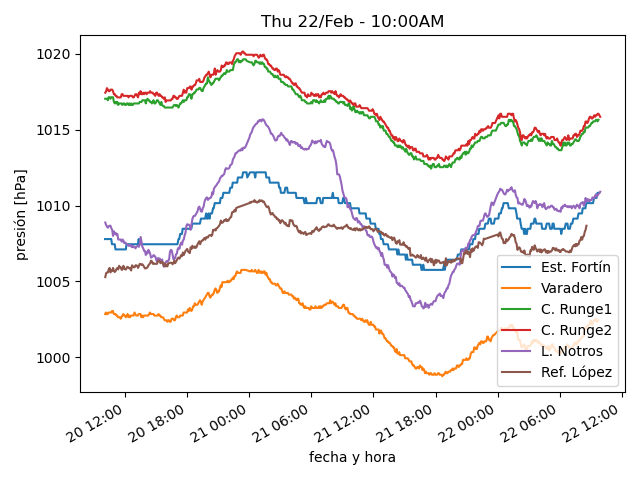
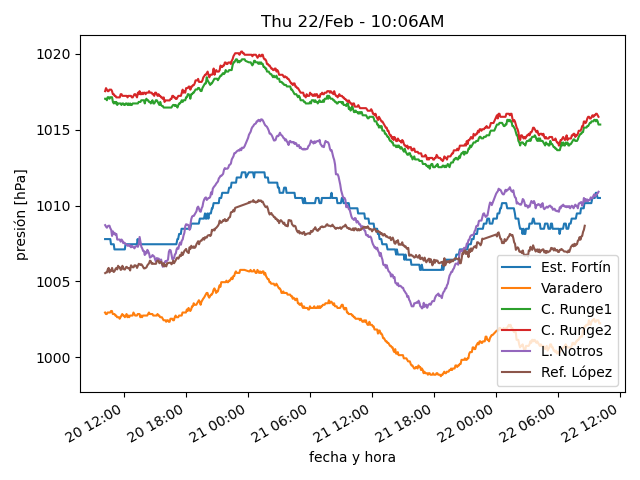
actualiza datos

diff --git a/estaciones/estacion2.html b/estaciones/estacion2.html
@@ -18,32 +18,32 @@
     </tr>
     <tr>
      <td class="stats_data">
-      9:44AM
+      10:04AM
      </td>
     </tr>
     <tr>
      <td class="stats_data">
-      12.7
+      13.0
      </td>
     </tr>
     <tr>
      <td class="stats_data">
-      7.8
+      7.9
      </td>
     </tr>
     <tr>
      <td class="stats_data">
-      71.9
+      71.2
      </td>
     </tr>
     <tr>
      <td class="stats_data">
-      1011.92
+      1011.72
      </td>
     </tr>
     <tr>
      <td class="stats_data">
-      34.8/42.9 NW
+      35.3/42.5 NW
      </td>
     </tr>
     <tr>
@@ -53,12 +53,12 @@
     </tr>
     <tr>
      <td class="stats_data">
-      2.0
+      4.0
      </td>
     </tr>
     <tr>
      <td class="stats_data">
-      268.5
+      420.4
      </td>
     </tr>
    </tbody>

diff --git a/estaciones/estacion1.html b/estaciones/estacion1.html
@@ -18,17 +18,17 @@
     </tr>
     <tr>
      <td class="stats_data">
-      9:43AM
+      10:03AM
      </td>
     </tr>
     <tr>
      <td class="stats_data">
-      11.3
+      11.4
      </td>
     </tr>
     <tr>
      <td class="stats_data">
-      3.8
+      3.9
      </td>
     </tr>
     <tr>
@@ -38,12 +38,12 @@
     </tr>
     <tr>
      <td class="stats_data">
-      1010.84
+      1010.5
      </td>
     </tr>
     <tr>
      <td class="stats_data">
-      27.4/32.2 W
+      15.3/36.2 WNW
      </td>
     </tr>
     <tr>
@@ -53,12 +53,12 @@
     </tr>
     <tr>
      <td class="stats_data">
-      1.1
+      1.7
      </td>
     </tr>
     <tr>
      <td class="stats_data">
-      223.0
+      339.0
      </td>
     </tr>
    </tbody>

diff --git a/estaciones/estacion3.html b/estaciones/estacion3.html
@@ -18,32 +18,32 @@
     </tr>
     <tr>
      <td class="stats_data">
-      9:44AM
+      10:04AM
      </td>
     </tr>
     <tr>
      <td class="stats_data">
-      11.7
+      11.9
      </td>
     </tr>
     <tr>
      <td class="stats_data">
-      6.2
+      6.1
      </td>
     </tr>
     <tr>
      <td class="stats_data">
-      68.8
+      67.6
      </td>
     </tr>
     <tr>
      <td class="stats_data">
-      1003.93
+      1003.62
      </td>
     </tr>
     <tr>
      <td class="stats_data">
-      8.7/13.3 WNW
+      12.7/18.0 WNW
      </td>
     </tr>
     <tr>
@@ -58,7 +58,7 @@
     </tr>
     <tr>
      <td class="stats_data">
-      441.5
+      484.9
      </td>
     </tr>
    </tbody>
